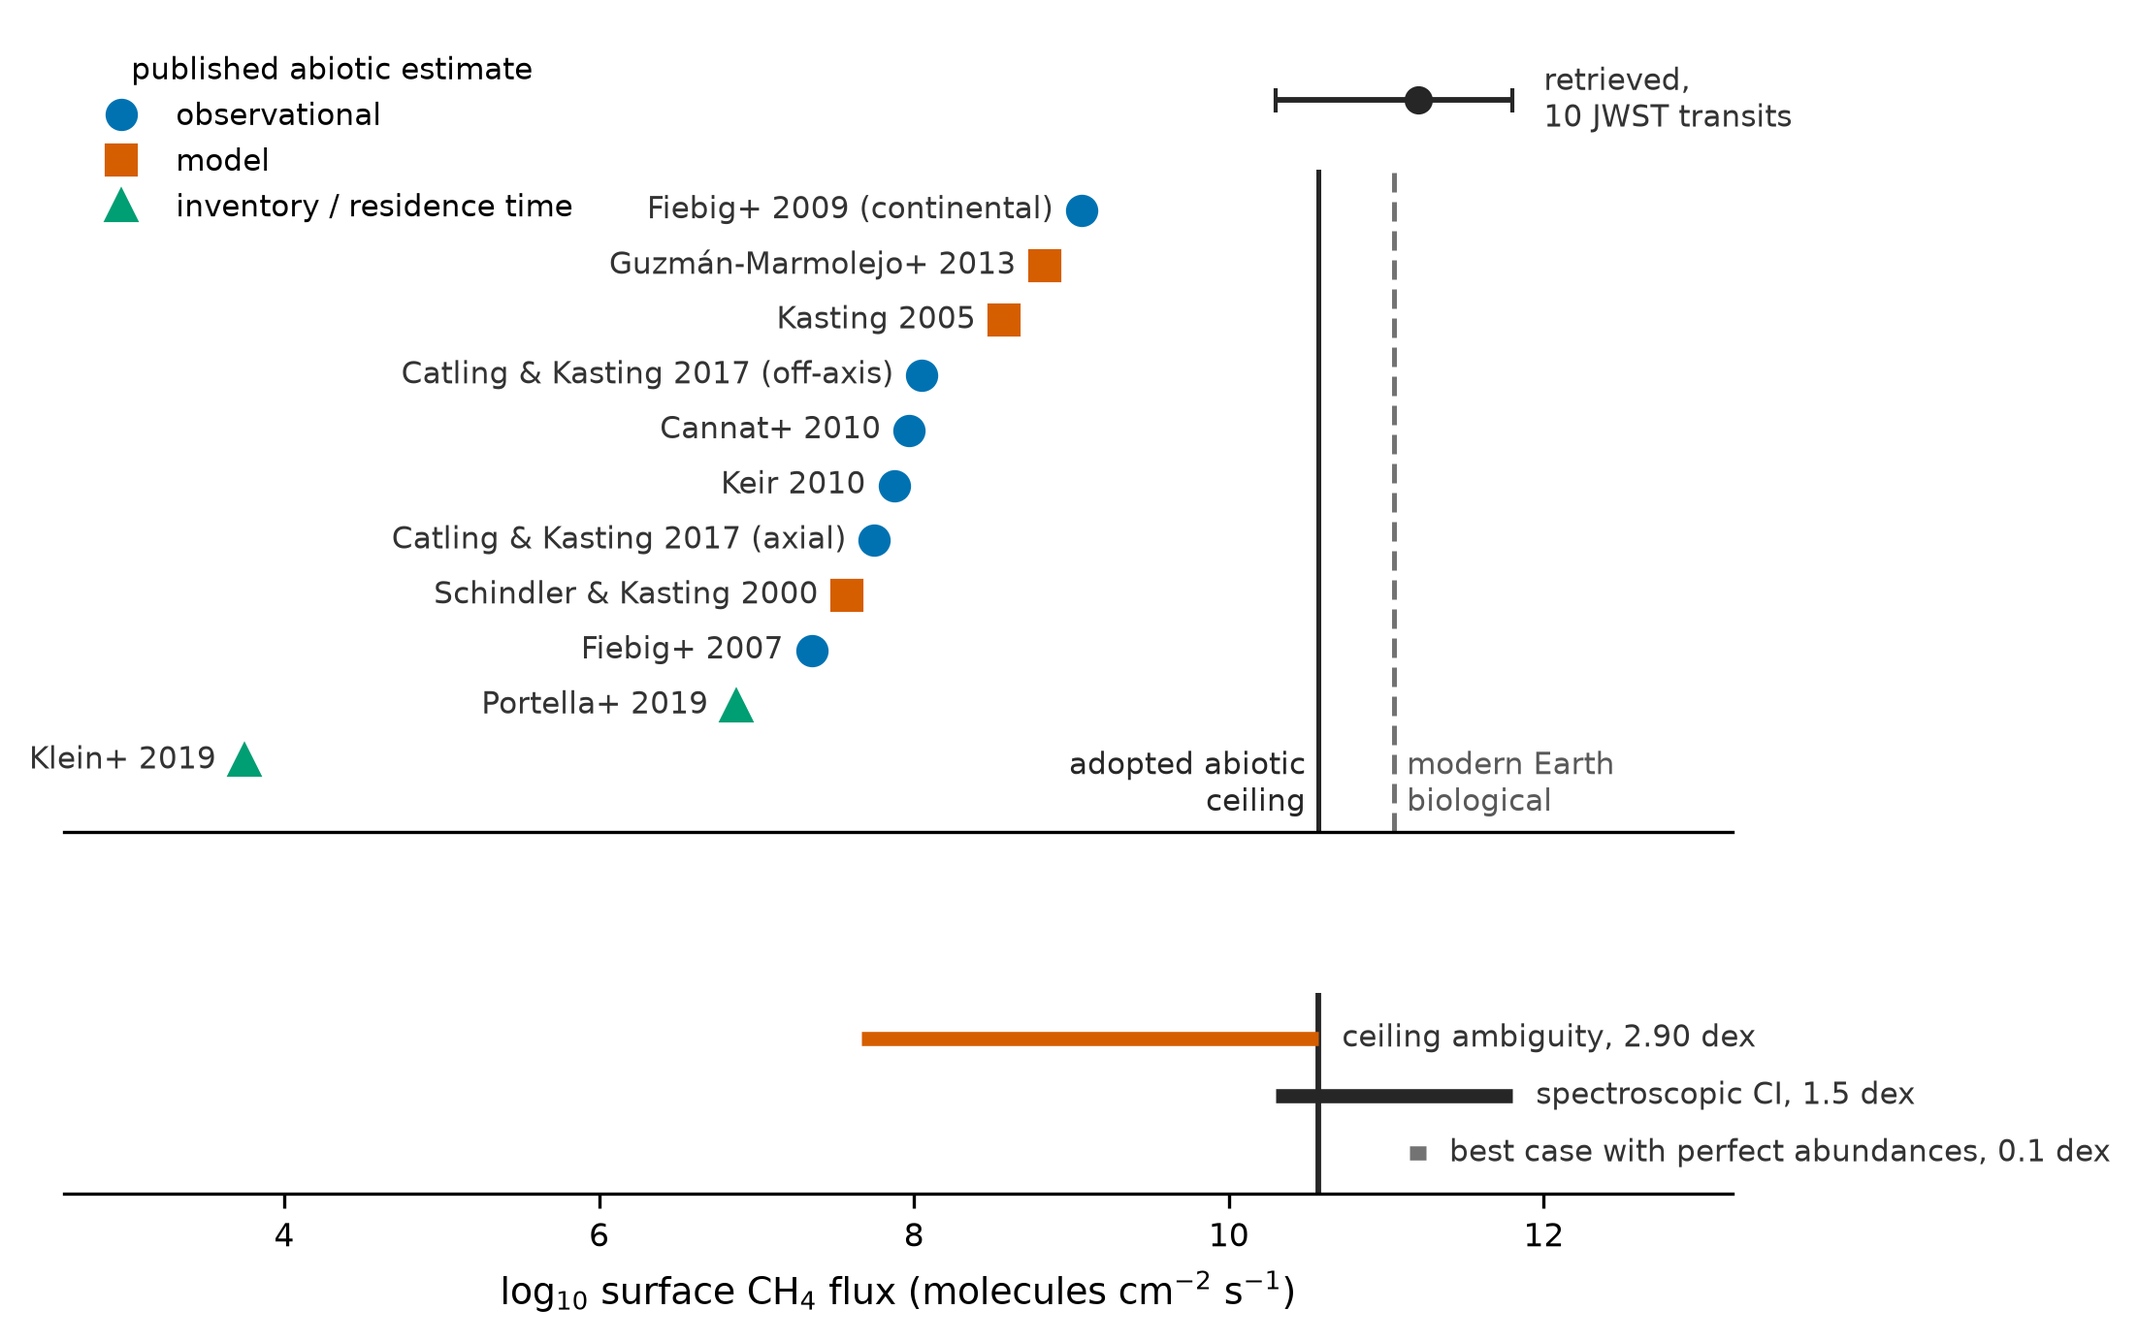
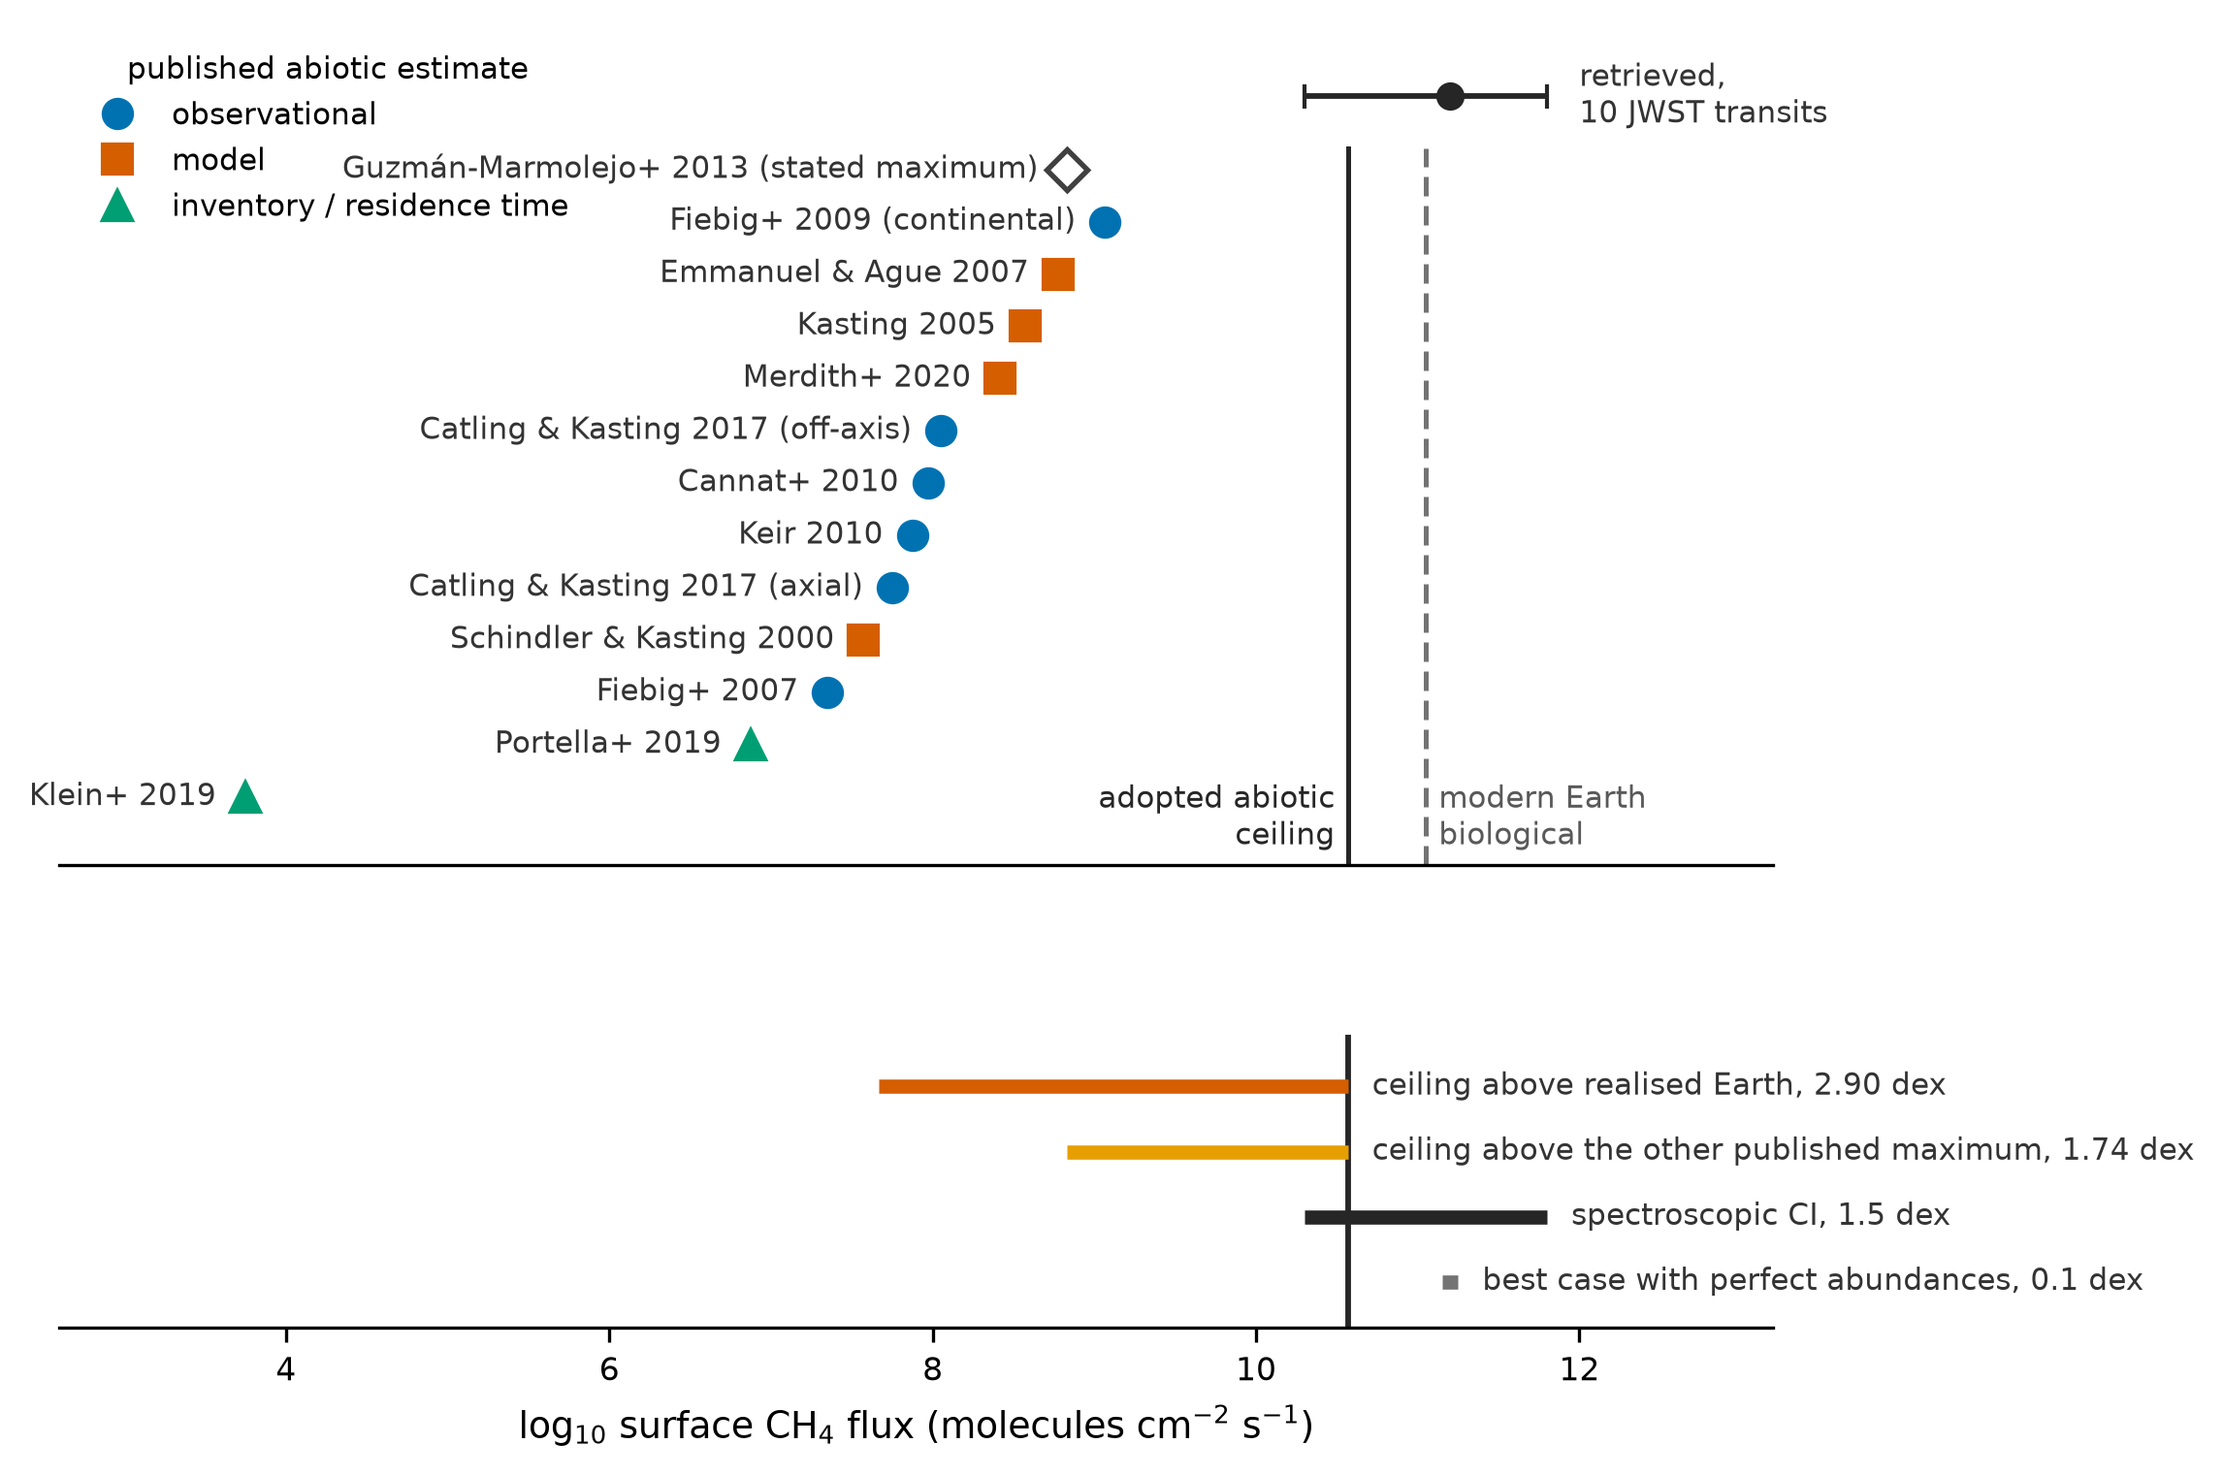
Replace secondary-source values with primary sources for Guzman-Marmolejo 2013 and Merdith 2020
Guzman-Marmolejo et al. call their 6.8e8 molec/cm2/s a maximum, which Thompson's
summary drops; reclassified from realised to maximal_bound. That gives a cleaner
comparison: two published maxima for the same process differ by 1.74 dex, which
does not depend on reading either as a realised flux.

Merdith et al. 2020 add a mid-ocean-ridge CH4 estimate that post-dates the
Thompson compilation, and a present-day H2 flux 3.5x above the value
Krissansen-Totton et al. calibrate to, so the realised corner is quoted as a range.

diff --git a/make_figure.py b/make_figure.py
@@ -19,7 +19,11 @@ STYLE = {
     "inventory_derived": ("#009E73", "^", "inventory / residence time"),
 }
 
+GM2013_MAX = 6.8e8  # Guzmán-Marmolejo+ 2013, their stated maximum for 1 M_earth
+
 SHORT = {
+    "merdith_2020_preferred": "Merdith+ 2020",
+    "emmanuel_ague_2007": "Emmanuel & Ague 2007",
     "schindler_kasting_2000": "Schindler & Kasting 2000",
     "cannat_2010": "Cannat+ 2010",
     "keir_2010": "Keir 2010",
@@ -38,8 +42,8 @@ def main():
     rows = earth_modern_realized(load()).sort_values("flux_lo").reset_index(drop=True)
     realized_earth = math.log10(tmol_per_yr_to_flux(ch4_tmol_per_yr(MODERN_EARTH)))
 
-    fig = plt.figure(figsize=(7.4, 5.2))
-    gs = GridSpec(2, 1, height_ratios=[4, 1], hspace=0.32)
+    fig = plt.figure(figsize=(7.6, 5.8))
+    gs = GridSpec(2, 1, height_ratios=[4, 1.4], hspace=0.30)
     ax, bx = fig.add_subplot(gs[0]), fig.add_subplot(gs[1])
 
     for a in (ax, bx):
@@ -55,7 +59,12 @@ def main():
             ha="right", va="center", fontsize=7.5, color="0.2",
         )
 
-    top = len(rows) + 1.0
+    gm = math.log10(GM2013_MAX)
+    ax.plot(gm, len(rows), "D", mfc="white", mec="0.25", mew=1.3, ms=7, zorder=3)
+    ax.text(gm - 0.18, len(rows), "Guzmán-Marmolejo+ 2013 (stated maximum)",
+            ha="right", va="center", fontsize=7.5, color="0.2")
+
+    top = len(rows) + 1.4
     ax.errorbar(
         RETRIEVED, top, xerr=[[RETRIEVED - CI_LO], [CI_HI - RETRIEVED]],
         fmt="o", color="0.15", ms=6, capsize=3, lw=1.4, zorder=3,
@@ -66,7 +75,7 @@ def main():
     # Reference lines stop below the retrieval row so its label does not cross them.
     for x, color, ls in [(math.log10(THRESHOLD), "0.15", "-"),
                          (math.log10(BIOLOGICAL), "0.45", (0, (4, 2)))]:
-        ax.plot([x, x], [-1.3, len(rows) - 0.3], color=color, lw=1.2, ls=ls, zorder=1)
+        ax.plot([x, x], [-1.3, len(rows) + 0.4], color=color, lw=1.2, ls=ls, zorder=1)
     ax.text(math.log10(BIOLOGICAL) + 0.08, -1.1, "modern Earth\nbiological",
             fontsize=7.5, color="0.35", va="bottom")
     ax.text(math.log10(THRESHOLD) - 0.08, -1.1, "adopted abiotic\nceiling",
@@ -85,7 +94,9 @@ def main():
               title="published abiotic estimate", title_fontsize=7.5)
 
     spans = [
-        (realized_earth, math.log10(THRESHOLD), "ceiling ambiguity, 2.90 dex", "#D55E00"),
+        (realized_earth, math.log10(THRESHOLD), "ceiling above realised Earth, 2.90 dex", "#D55E00"),
+        (math.log10(GM2013_MAX), math.log10(THRESHOLD),
+         "ceiling above the other published maximum, 1.74 dex", "#E69F00"),
         (CI_LO, CI_HI, "spectroscopic CI, 1.5 dex", "0.15"),
         (RETRIEVED - BEST_CASE_CI / 2, RETRIEVED + BEST_CASE_CI / 2,
          "best case with perfect abundances, 0.1 dex", "0.45"),
@@ -94,7 +105,7 @@ def main():
         bx.plot([lo, hi], [-y, -y], color=color, lw=3.5, solid_capstyle="butt", zorder=3)
         bx.text(hi + 0.15, -y, label, va="center", fontsize=7.5, color="0.2")
 
-    bx.set_ylim(-2.7, 0.8)
+    bx.set_ylim(-3.7, 0.8)
     bx.set_yticks([])
     bx.spines["left"].set_visible(False)
     bx.set_xlabel("log$_{10}$ surface CH$_4$ flux (molecules cm$^{-2}$ s$^{-1}$)", fontsize=9)

diff --git a/tests/test_claims.py b/tests/test_claims.py
@@ -7,7 +7,7 @@ from pathlib import Path
 import pandas as pd
 from pytest import approx
 
-from abiotic_ch4.convert import tmol_per_yr_to_flux
+from abiotic_ch4.convert import flux_to_tmol_per_yr, tmol_per_yr_to_flux
 from abiotic_ch4.data import earth_modern_realized, load
 from abiotic_ch4.kt2018 import (
     MAX_CORNER,
@@ -25,6 +25,12 @@ BIOLOGICAL = 1.122e11
 THRESHOLD = 3.7e10
 THRESHOLD_TMOL = 10.0
 RETRIEVED_LOG10 = 11.2
+
+# Guzman-Marmolejo et al. 2013, abstract: "maximum CH4 surface fluxes" for 1 and 5 M_earth.
+GM2013_MAX_1ME = 6.8e8
+
+# Merdith et al. 2020, abstract: present-day H2 from mid-ocean-ridge serpentinization.
+MERDITH_H2_TMOL = 0.7
 
 REALIZED_EARTH = tmol_per_yr_to_flux(ch4_tmol_per_yr(MODERN_EARTH))
 
@@ -61,10 +67,27 @@ def test_threshold_is_three_times_under_earths_biological_flux():
 
 def test_no_published_realised_estimate_reaches_the_threshold():
     rows = earth_modern_realized(load())
-    assert len(rows) == 11
+    assert len(rows) == 12
     highest = rows.flux_hi.max()
     assert highest < THRESHOLD
     assert math.log10(highest) == approx(9.06, abs=0.02)  # Fiebig et al. 2009, continental
+
+
+def test_two_published_maxima_differ_by_1_7_dex():
+    # Both are upper bounds, so the comparison does not depend on reading one as realised.
+    assert math.log10(THRESHOLD / GM2013_MAX_1ME) == approx(1.74, abs=0.02)
+
+
+def test_gm2013_tmol_round_trips_from_its_published_flux():
+    row = load().set_index("source_key").loc["guzman_marmolejo_2013_1me"]
+    assert flux_to_tmol_per_yr(GM2013_MAX_1ME) == approx(row.tmol_per_yr_lo, rel=1e-6)
+
+
+def test_merdith_h2_exceeds_the_kt2018b_earth_anchor():
+    # KT2018b calibrate fr_H2 against ~0.2 Tmol/yr. Merdith+2020 find ~0.7 for
+    # slow and ultraslow ridges alone, so the realised corner may sit ~0.5 dex low.
+    assert h2_tmol_per_yr(MODERN_EARTH) == approx(0.2, rel=0.02)
+    assert math.log10(MERDITH_H2_TMOL / h2_tmol_per_yr(MODERN_EARTH)) == approx(0.55, abs=0.03)
 
 
 def test_ceiling_ambiguity_exceeds_the_spectroscopic_uncertainty():
@@ -73,9 +96,11 @@ def test_ceiling_ambiguity_exceeds_the_spectroscopic_uncertainty():
     best_case = table.ci_width_dex.min()
     assert (as_retrieved, best_case) == (1.5, 0.1)
 
-    ambiguity = math.log10(THRESHOLD / REALIZED_EARTH)
-    assert ambiguity / as_retrieved == approx(1.93, abs=0.05)
-    assert ambiguity / best_case == approx(29, abs=1)
+    # Both framings of the ceiling ambiguity exceed the interval actually achieved.
+    for ambiguity in (math.log10(THRESHOLD / REALIZED_EARTH), math.log10(THRESHOLD / GM2013_MAX_1ME)):
+        assert ambiguity > as_retrieved
+    assert math.log10(THRESHOLD / REALIZED_EARTH) / as_retrieved == approx(1.93, abs=0.05)
+    assert math.log10(THRESHOLD / REALIZED_EARTH) / best_case == approx(29, abs=1)
 
 
 def test_ceiling_choice_moves_the_detectability_floor_800_fold():

diff --git a/note/rnaas.md b/note/rnaas.md
@@ -4,14 +4,15 @@
 
 Flux based biosignature assessment compares an inferred surface methane flux
 against a ceiling on abiotic production. The ceiling in current use is a
-deliberately conservative upper bound, adopted as a single number. Read against
-published estimates of what Earth's abiotic sources actually produce, it sits
-about three orders of magnitude above them and a factor of three below Earth's
-own biological methane flux. The choice of ceiling therefore fixes the smallest
-biosphere an observation can reveal, and the span of defensible choices is wider
-than the spectroscopic uncertainty of the retrieval it is compared against.
-Reporting the biosignature probability as a function of the assumed ceiling would
-make that dependence visible at no additional computational cost.
+deliberately conservative upper bound, adopted as a single number. It lies more
+than an order of magnitude above the only other published maximum for the same
+process, about three orders of magnitude above published estimates of what Earth
+actually produces, and a factor of three below Earth's own biological methane
+flux. The choice of ceiling therefore fixes the smallest biosphere an observation
+can reveal, and the span of defensible choices is wider than the spectroscopic
+uncertainty of the retrieval it is compared against. Reporting the biosignature
+probability as a function of the assumed ceiling would make that dependence
+visible at no additional computational cost.
 
 ## Note
 
@@ -29,12 +30,20 @@ taken as the abiotic alternative and the resulting odds ratio is used as a proxy
 for the Bayes factor between life and no life. A bound chosen to be generous then
 does the work of a likelihood.
 
-Figure 1 places the ceiling against published estimates of Earth's realised abiotic
-methane production, compiled in the supplementary material of Thompson et al.
-(2022). Every estimate for modern Earth lies below the ceiling. The largest, from
-continental hydrothermal emissions, falls short of it by 1.5 dex. Six seafloor
-estimates, spanning mid-ocean ridges, off-axis vent fields, submarine volcanism and
-subduction related sites, fall between log F = 7.3 and 8.1.
+The clearest way to see the size of that choice is to compare it with the other
+published maximum for the same process. Guzmán-Marmolejo et al. (2013) modelled
+methane production by serpentinization from the kinetics of the reactions involved,
+with carbon dioxide as the limiting reactant, and report a maximum surface flux of
+6.8e8 molecules cm^-2 s^-1 for an Earth mass planet. Two maxima for the same
+process therefore differ by 1.74 dex. Neither is a realised flux, so the comparison
+does not turn on how conservative a bound ought to be.
+
+Figure 1 places both against published estimates of Earth's realised abiotic
+methane production, compiled from the supplementary material of Thompson et al.
+(2022) and from Merdith et al. (2020). Every estimate for modern Earth lies below
+the ceiling, the largest, from continental hydrothermal emissions, by 1.5 dex. Six
+seafloor estimates, spanning mid-ocean ridges, off-axis vent fields, submarine
+volcanism and subduction related sites, fall between log F = 7.3 and 8.1.
 
 The lower corner of the four parameter ranges sampled by Krissansen-Totton et al.
 is itself modern Earth. Taking their modern crustal production rate, 10 wt% FeO in
@@ -43,7 +52,11 @@ against observation, and the hydrogen to methane ratio of 12 measured in
 ultramafic hosted vent fluids, their Equation 6 returns 0.012 Tmol yr^-1, or
 log F = 7.67. Their distribution runs from what Earth does to the most generous
 case they were willing to entertain, and the adopted percentile sits 2.90 dex above
-its lower end.
+its lower end. That lower corner is itself uncertain upward: Merdith et al. (2020)
+find a present-day hydrogen flux of about 0.7 Tmol yr^-1 from slow and ultraslow
+ridges alone, against the 0.2 Tmol yr^-1 that Krissansen-Totton et al. calibrate to,
+which would raise the realised corner by roughly 0.5 dex. The span between a
+realised and a maximal ceiling is therefore between about 2.4 and 2.9 dex.
 
 Two consequences follow, both in the units of the original analysis.
 
@@ -53,18 +66,18 @@ Catling & Kasting (2017). The ceiling lies a factor of three below that. A plane
 whose biosphere produced methane at less than a third of Earth's rate could not be
 called inhabited on this criterion at any signal to noise. Placing the ceiling at
 the realised Earth value instead moves the floor to roughly one part in 2400 of
-Earth's biological flux. The choice of ceiling alone shifts the detectability floor
-by a factor of about 800.
+Earth's biological flux.
 
 Second, the span of defensible ceilings is large next to the measurement. The
 retrieval returns a 68% credible interval 1.5 dex wide for the logarithm of the
 methane flux. Table A1 of Wogan et al. gives that width under every combination of
 gas abundances fixed to their true values, and the narrowest entry is 0.1 dex,
 which is the limit of what perfect abundance knowledge would buy on this target.
-The 2.90 dex separating a realised ceiling from a maximal one is 1.9 times the
-interval actually achieved and 29 times that limit. A posterior width and a range
-of candidate thresholds are different objects, but both enter the same decision in
-the same units, and here the geochemical term is the larger of the two.
+Both framings of the ceiling ambiguity, 1.74 dex between two maxima and 2.4 to 2.9
+dex between a maximum and a realised flux, exceed the interval actually achieved.
+A posterior width and a range of candidate thresholds are different objects, but
+both enter the same decision in the same units, and here the geochemical term is
+the larger of the two.
 
 None of this is concealed in the original work. Wogan et al. state that they adopt
 a single value for simplicity, note that the inhabited and lifeless flux regions
@@ -80,30 +93,33 @@ inference rests on geochemistry. Treating the abiotic term as a reported depende
 rather than a fixed input seems the more useful division of labour as flux based
 biosignature assessment develops.
 
-Two limits apply to what is compiled here. The estimates in Figure 1 are taken from
-Thompson et al.'s supplement rather than re-derived from each primary source, and
-they describe different reservoirs that are only partly additive, so the figure
-should be read as a range of published values and not as a distribution. A ceiling
-for a planet other than Earth would also need its crustal production rate scaled,
-as Guzmán-Marmolejo et al. (2013) do for a five Earth mass planet.
+One limit applies to what is compiled here. The estimates in Figure 1 describe
+different reservoirs that are only partly additive, and several of the seafloor
+values are alternative estimates of one quantity rather than separate contributions
+to it, so the figure should be read as a range of published values and not as a
+distribution. A ceiling for a planet other than Earth would also need its crustal
+production rate scaled, as Guzmán-Marmolejo et al. (2013) do for a five Earth mass
+planet.
 
 ## Figure 1
 
 Published estimates of Earth's abiotic methane production, against the ceiling
-adopted in flux based biosignature assessment. Markers distinguish observational
-estimates, model estimates, and estimates obtained by dividing a reservoir
-inventory by a residence time. The solid line is the adopted abiotic ceiling and
-the dashed line is modern Earth's biological methane flux. The point with error
+adopted in flux based biosignature assessment. Filled markers distinguish
+observational estimates, model estimates, and estimates obtained by dividing a
+reservoir inventory by a residence time; the open diamond is the maximum reported
+by Guzmán-Marmolejo et al. (2013). The solid line is the adopted abiotic ceiling
+and the dashed line is modern Earth's biological methane flux. The point with error
 bars is the flux retrieved from a synthetic ten transit JWST spectrum of an
-Archean-like TRAPPIST-1 e. The lower panel compares the span between a realised and
-a maximal ceiling with the credible interval of that retrieval and with the
-narrowest interval attainable if all gas abundances were known exactly.
+Archean-like TRAPPIST-1 e. The lower panel compares both framings of the ceiling
+ambiguity with the credible interval of that retrieval and with the narrowest
+interval attainable if all gas abundances were known exactly.
 
 ## Software and data
 
 The compiled estimates, the arithmetic reproducing every value quoted above, and
 the script that draws Figure 1 are available at
-https://github.com/ssiddhantsharma/abiotic-ch4 and archived at Zenodo. The
-quantities cited from Krissansen-Totton et al. (2018) are recomputed from their
-Equation 6 and its four published parameter ranges rather than read from their
-figure.
+https://github.com/ssiddhantsharma/abiotic-ch4 and archived at Zenodo. Values from
+Krissansen-Totton et al. (2018) are recomputed from their Equation 6 and its four
+published parameter ranges rather than read from their figure, and values from
+Guzmán-Marmolejo et al. (2013) and Merdith et al. (2020) are taken from those
+papers rather than from the compilations that cite them.
